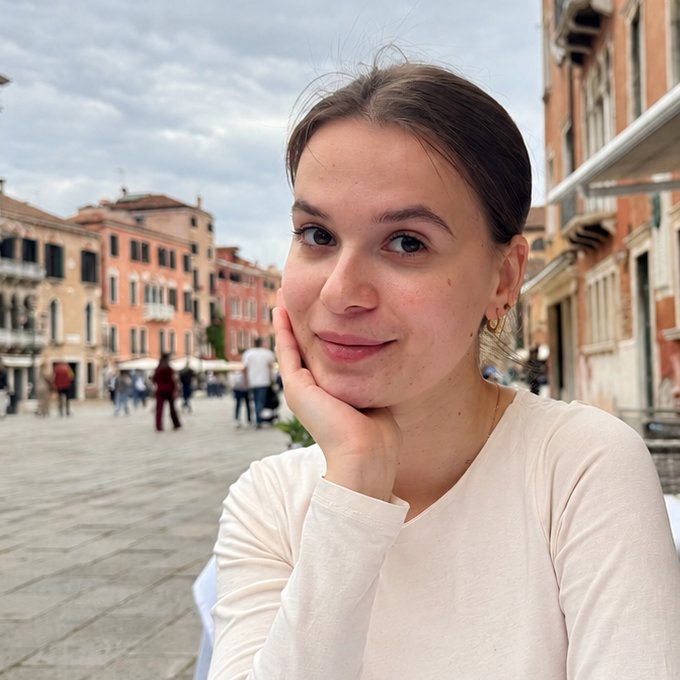
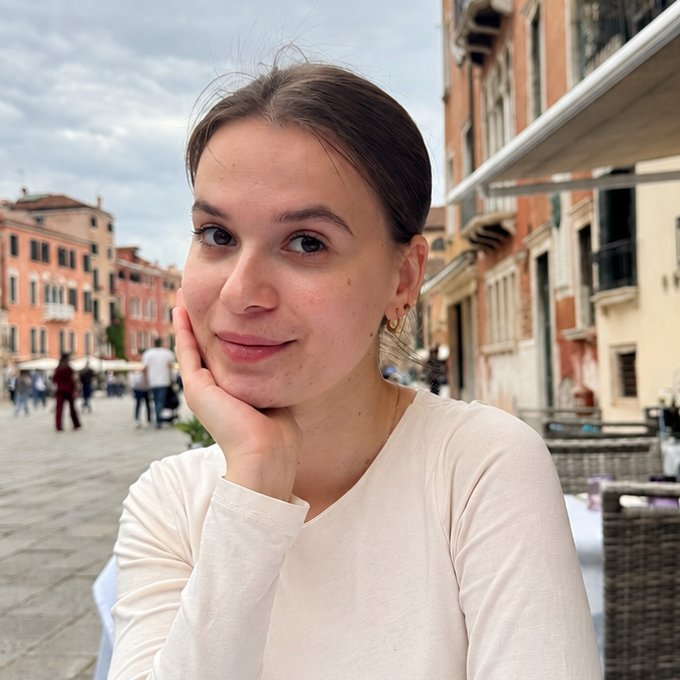
Recenter hero photo horizontally
Face was leaning right of center; shifted crop origin +40px so face
sits in the middle of the circle.

diff --git a/index.html b/index.html
@@ -40,7 +40,7 @@
     <section id="hero" class="hero">
       <div class="hero__photo-wrap">
         <div class="hero__photo-ring"></div>
-        <img src="assets/photo.jpg?v=20260906" alt="Aleksandra Fedoseeva" class="hero__photo" onerror="this.style.display='none'; this.nextElementSibling.style.display='flex';" />
+        <img src="assets/photo.jpg?v=20260906b" alt="Aleksandra Fedoseeva" class="hero__photo" onerror="this.style.display='none'; this.nextElementSibling.style.display='flex';" />
         <div class="hero__photo-fallback">AF</div>
       </div>
       <h1 class="hero__title">
